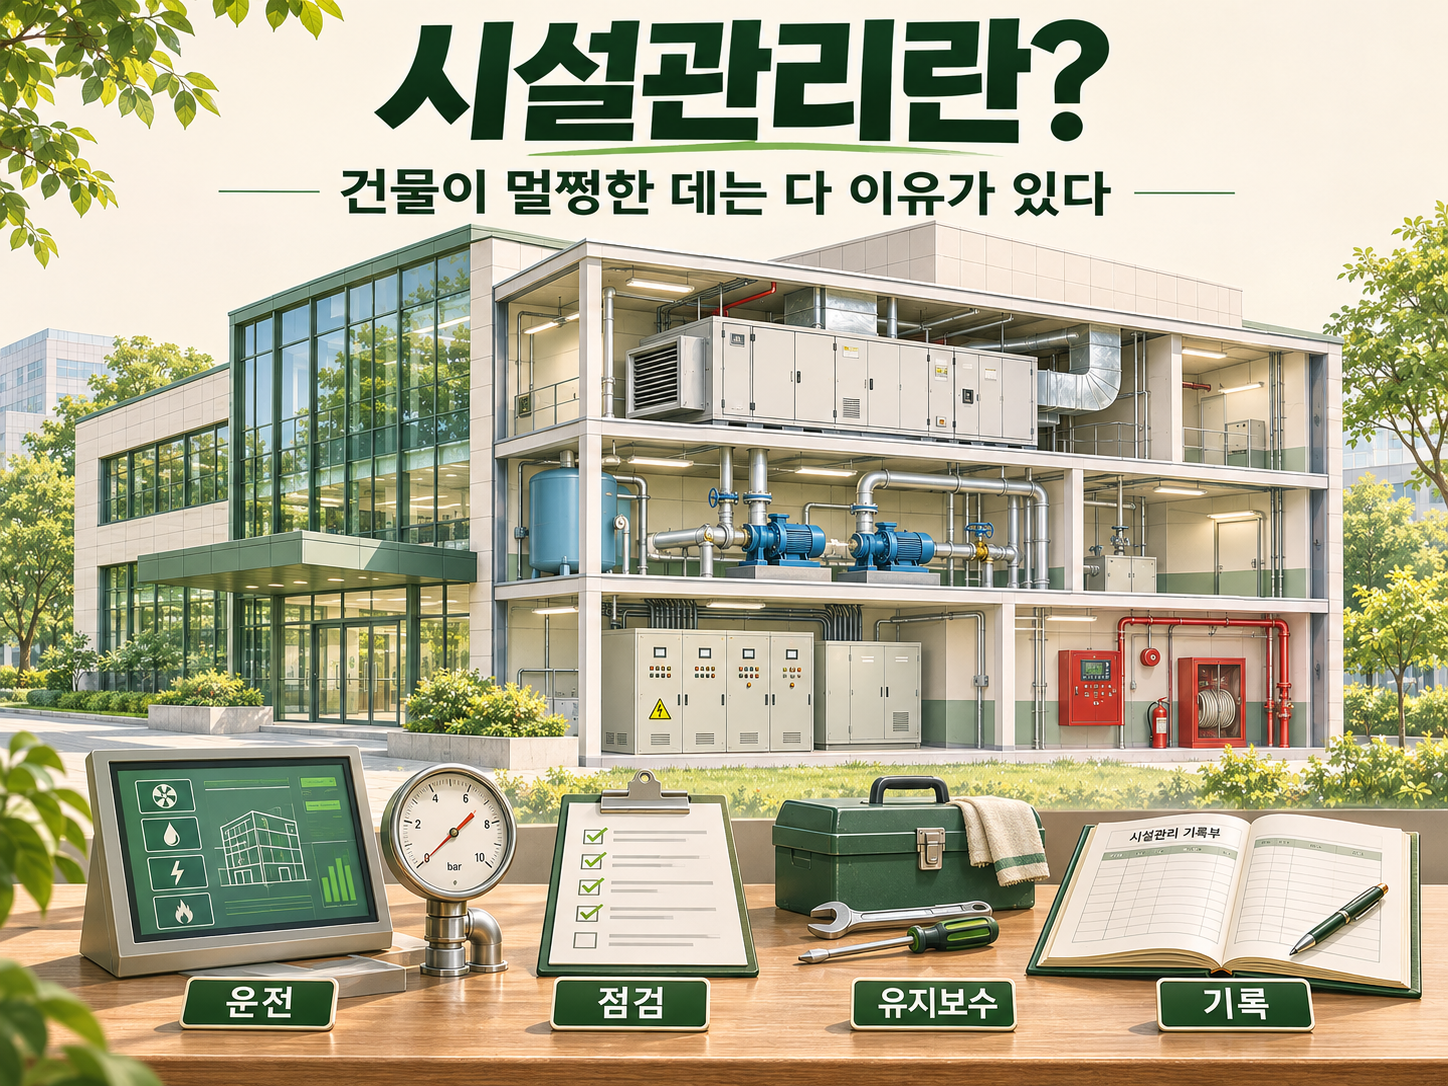
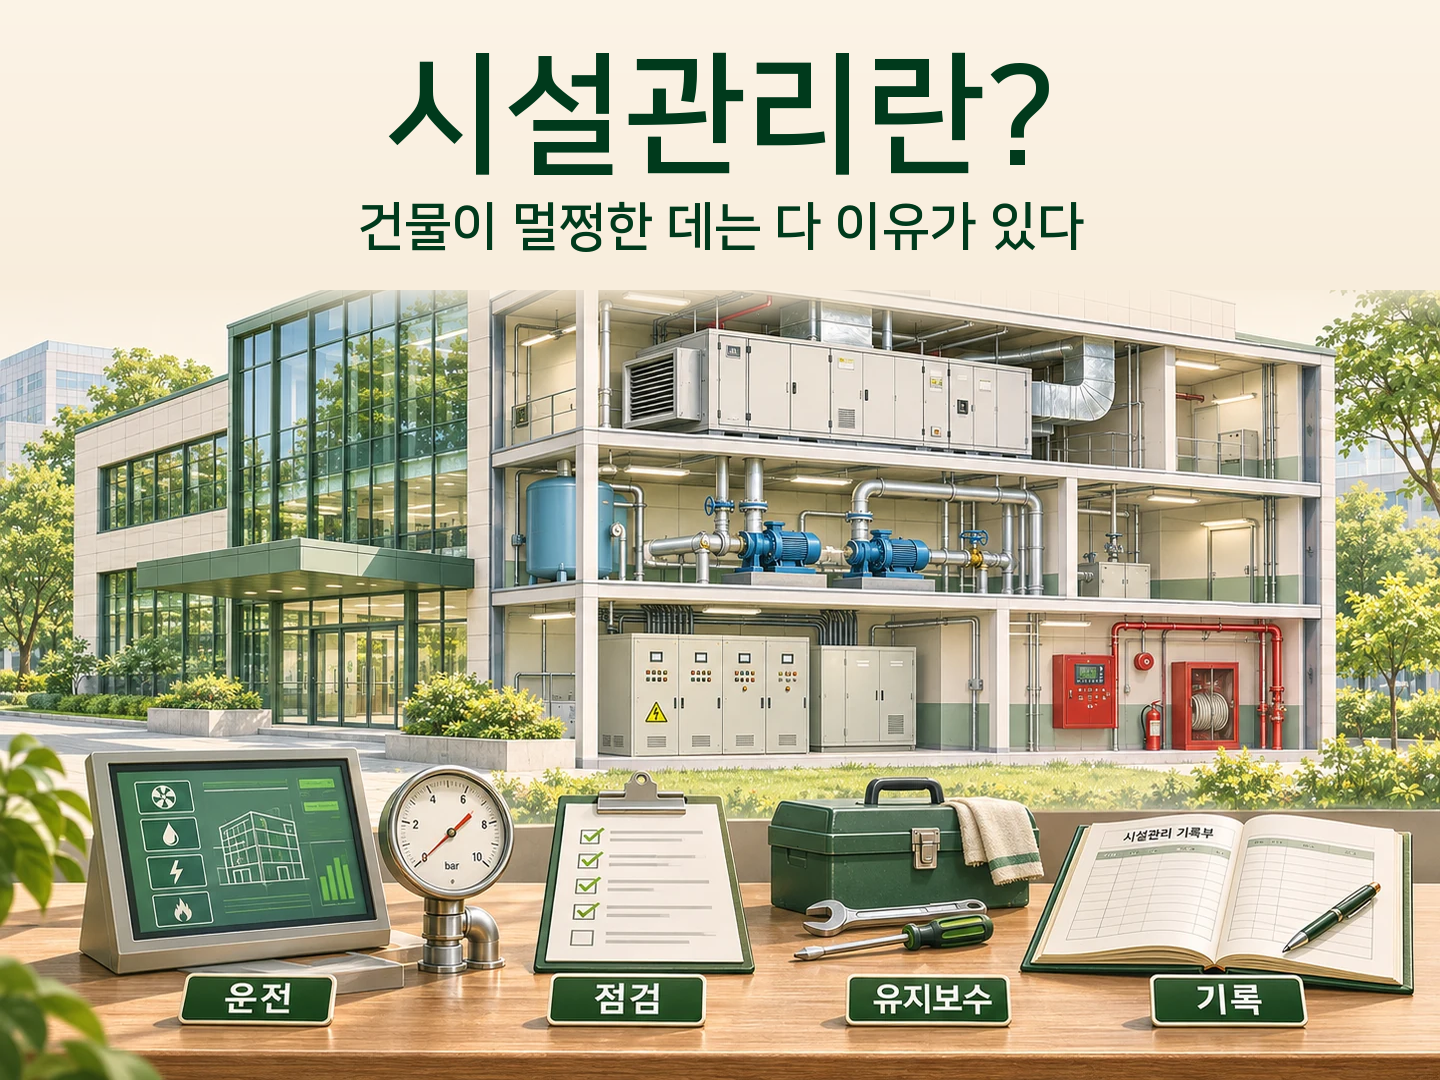
시설 대표 이미지 타이틀·부제 1차 통일 (#267)
* feat(facility): normalize priority hero title blocks

* chore(facility): update normalized hero hashes

* docs(facility): codify hero title and subtitle geometry

* docs: add facility hero typography normalization audit

* test(facility): allow approved hero typography replacements

* test(facility): allow approved hero replacements in pictogram review

diff --git a/docs/standards/facility-content-guide-v1.4.md b/docs/standards/facility-content-guide-v1.4.md
@@ -739,6 +739,17 @@ status: "reviewed"
 - 320/390px·768/1440px에서 원본 선택, 이미지 개수, 종횡비, 한글·아이콘·줄바꿈·텍스트 잘림·가로 넘침을 확인한다. 검토본의 핵심 세부 문구 표시 크기는 320px 본문폭 280px에서도 12px 이상이다. 실제 사이트 삽입폭이 다르면 해당 조건에서 재검증한다.
 - 원본·기존 공개 자산은 보존하고 개별 글 교체는 승인 범위에 맞춰 진행한다. 템플릿 제작·실제 글 적용·배포·Production 확인을 별도 상태로 기록한다.
 
+#### 5.13.11 대표 이미지 타이틀·부제 정렬 정본 (2026-11-10 보완)
+
+- **적용 범위:** `시설의 모든 것` 일반 대표 이미지(1440×1080, 4:3). 카드형 인포그래픽과 호병백마처럼 별도 시리즈 톤을 승인한 이미지는 자동 적용하지 않는다.
+- **기준 레퍼런스:** `employment-types` 대표 이미지의 상단 타이포 블록을 정본으로 삼는다. 동일 캔버스에서 타이틀·부제의 시작 위치와 안전영역을 우선 맞추고, 본문 일러스트는 각 글의 고유 구성을 유지한다.
+- **타이틀 영역:** 1440×1080 기준 중앙 정렬, 시각적 잉크 영역은 대략 `y=50~178px`, 좌우 안전영역은 최소 80px. 포레스트 그린 굵은 고딕을 사용하고 한 줄을 우선한다. 글자 수에 따라 약 82~132px 범위에서 축소하되, 지나치게 작게 맞추기보다 문구를 줄인다.
+- **부제 영역:** 중앙 정렬, 대략 `y=197~257px`, 좌우 안전영역은 최소 120px. 약 44~52px의 포레스트 그린 고딕을 사용한다. 일반 대표 이미지에서는 캡슐·붓터치 배경을 기본값으로 쓰지 않는다.
+- **정보 위계:** 상단은 `타이틀 → 부제` 두 단계로 끝낸다. `2026년 채용공고 사례` 같은 세 번째 설명 문구는 대표 이미지 상단에 추가하지 않고 본문·캡션으로 이동한다.
+- **상단 배경:** 밝은 아이보리·크림 계열을 기본으로 하며 외곽 흰 여백·별도 프레임을 만들지 않는다. 이미지 자체의 1440×1080 캔버스가 카드 경계가 되도록 한다.
+- **본문 시작선:** 주요 시각 요소는 대략 y=280~320px 아래에서 시작하도록 구성해 타이틀과 충돌하지 않게 한다. 이미지마다 설비·건물의 핵심이 잘리지 않는 범위에서 조정한다.
+- **검수:** 1440px 원본과 실제 목록/본문 축소 상태를 함께 보고, 390px 모바일에서 타이틀·부제가 과도하게 작아지거나 잘리지 않는지 확인한다. 같은 게시물의 WebP·PNG 마스터·manifest 크기/해시를 함께 맞춘다.
+
 ### 5.14 1~5번 콘텐츠 교정에서 확정된 공통 제작 워크플로 (v1.4 추가)
 
 **적용 범위:** GetPassLab `시설의 모든 것` 신규·개정 기사 전반. 자격증 기출 원문·학습 챕터에는 기존 정본 가이드를 유지한다.

diff --git a/docs/audits/2026-11-10-facility-hero-title-normalization/README.md b/docs/audits/2026-11-10-facility-hero-title-normalization/README.md
@@ -1,0 +1,44 @@
+# 시설 대표 이미지 타이틀·부제 정렬 1차 통일
+
+기준일: 2026-11-10
+
+## 목적
+
+게시 중인 시설 대표 이미지 14장을 전수 비교한 뒤, 현재 승인된 `employment-types` 대표 이미지의 상단 타이포 구조를 일반 대표 이미지 정본으로 삼아 편차가 큰 6장을 우선 교정한다.
+
+## 대상
+
+- 01 `what-is-facility-management`
+- 06 `hanfms`
+- 08 `korailtech`
+- 10 `statutory-appointments`
+- 11 `mechanical-maintainer-levels`
+- 13 `boiler-inspection-manager`
+
+공개 URL·본문·alt·이미지 경로는 바꾸지 않는다.
+
+## 적용 규격
+
+- 캔버스: 1440×1080, 4:3
+- 타이틀: 중앙 정렬, 시각적 기준 y≈50~178px, 좌우 안전영역 80px
+- 부제: 중앙 정렬, y≈197~257px, 좌우 안전영역 120px
+- 상단 정보 위계: 타이틀 → 부제 2단계
+- 캡슐/붓터치형 부제와 세 번째 설명문 제거
+- 밝은 아이보리/크림 상단 배경, 외곽 여백·프레임 없음
+- 본문 시각 요소는 대략 y=280~320px 아래에서 시작
+- 각 글의 기존 설비·건물·서류 장면은 최대한 유지
+
+## 보존·변경 범위
+
+각 대상은 WebP 공개 파생본과 PNG 마스터를 함께 교체하고, `docs/audits/2026-11-06-facility-image-bulk/manifest.json`의 두 SHA-256을 새 파일과 일치시킨다. 대상 6장 외 시설 이미지와 콘텐츠 원문은 변경하지 않는다.
+
+## 검증 계획
+
+1. manifest 해시와 실제 WebP/PNG 바이트 일치
+2. WebP/PNG 1440×1080 확인
+3. 시설 bulk visual QA
+4. 시설 publication QA / SEO
+5. PR diff에서 대상 6장 외 제품 이미지 변경 없음 확인
+6. 사용자 승인 후에만 main 병합 및 Production 배포
+
+호병백마는 별도 시리즈 톤 승인본이므로 이번 1차 통일 대상에서 제외한다.
